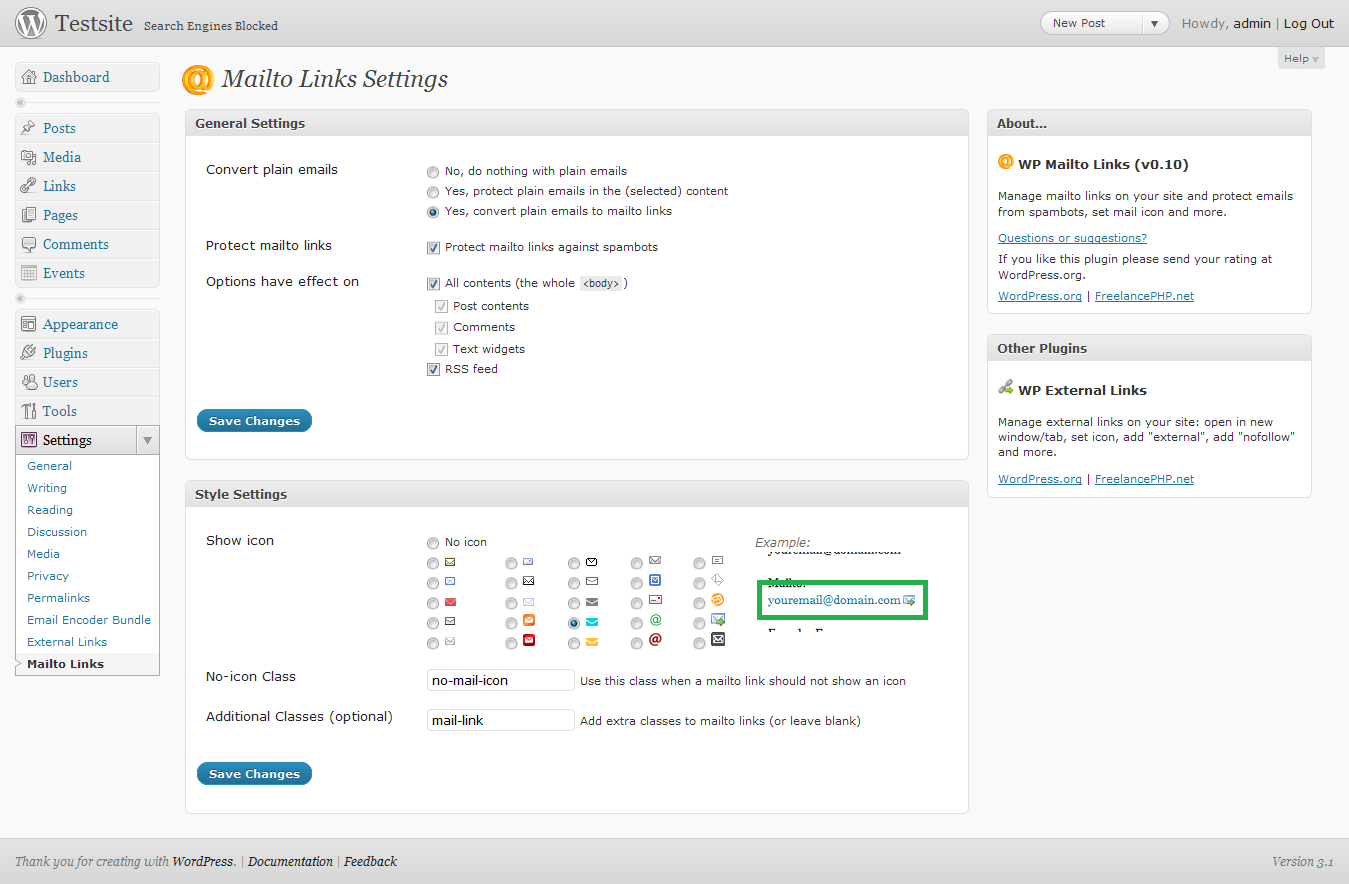
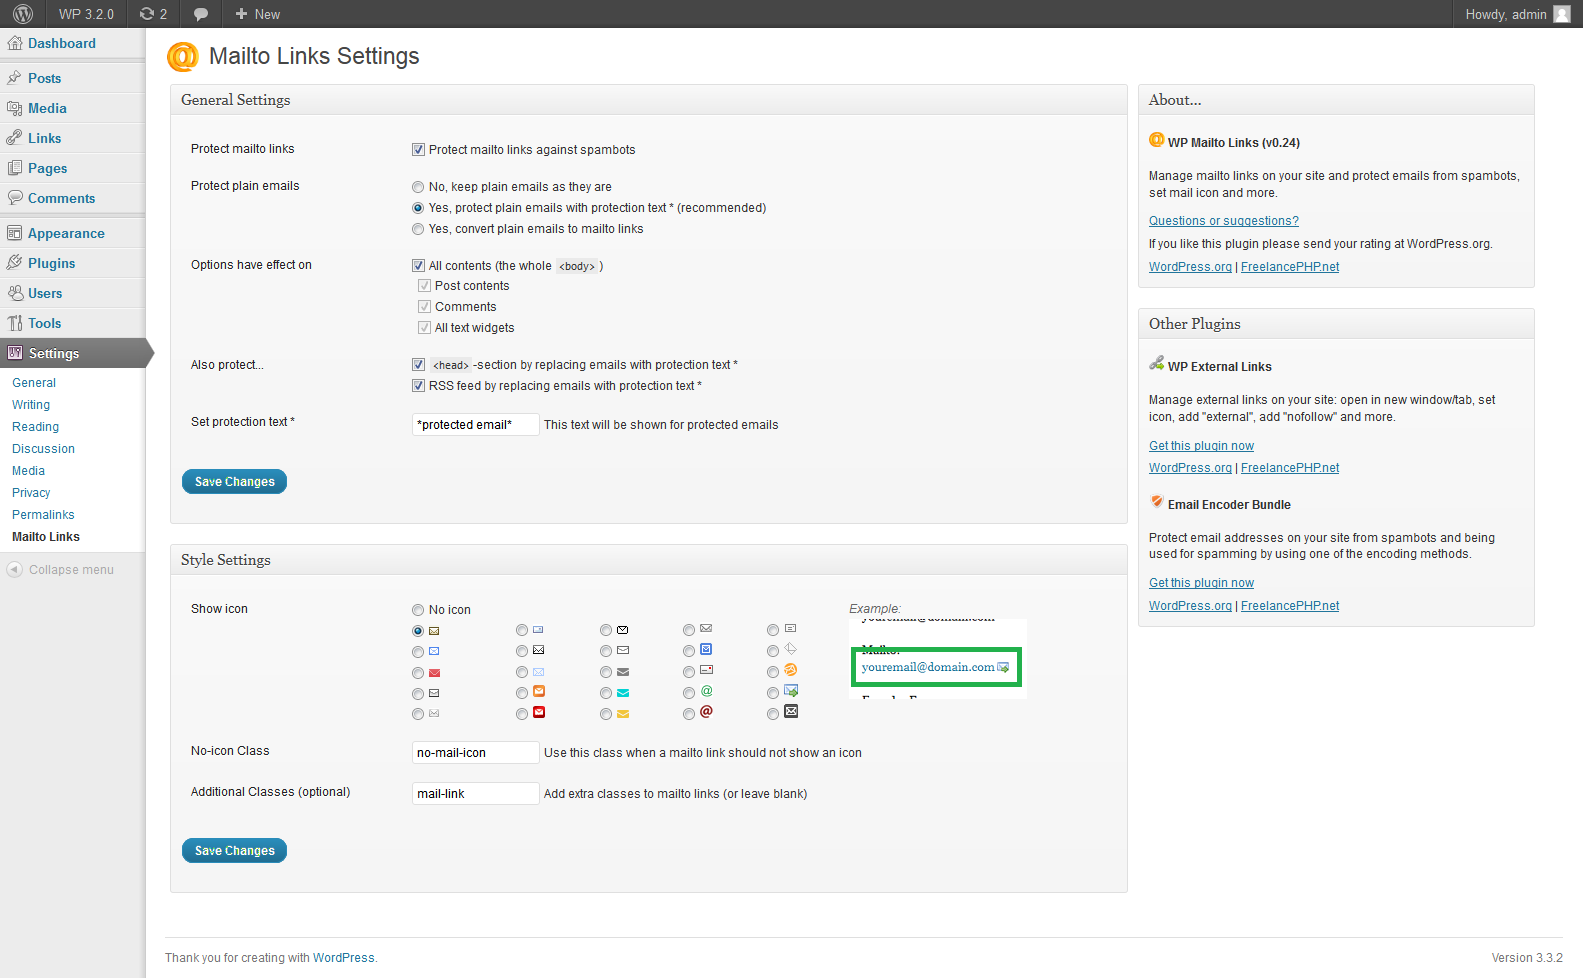
Tag 0.30
git-svn-id: https://plugins.svn.wordpress.org/wp-mailto-links/trunk@543396 b8457f37-d9ea-0310-8a92-e5e31aec5664

diff --git a/js/mailto-links.js b/js/mailto-links.js
@@ -1,15 +1,15 @@
 /* WP Mailto Links Plugin */
-(function( w ){
+(function (w) {
 
-	w.wpml = function ( s1, d, e ) {
-		w.open( 'mailto:'+ rot13( s1.replace( /\[a\]/g, '@' ) ) ).close();
+	w.wpml = function (s1, d, e) {
+		w.open('mailto:'+ rot13(s1.replace(/\[a\]/g, '@'))).close();
 	};
 
-	function rot13( s ){
+	function rot13(s) {
 		// source: http://jsfromhell.com/string/rot13
-		return s.replace( /[a-zA-Z]/g, function( c ) {
+		return s.replace(/[a-zA-Z]/g, function(c) {
 			return String.fromCharCode((c <= "Z" ? 90 : 122) >= (c = c.charCodeAt(0) + 13) ? c : c - 26);
 		});
 	};
 
-})( window );
+})(window);

diff --git a/wp-mailto-links.php b/wp-mailto-links.php
@@ -4,7 +4,7 @@ Plugin Name: WP Mailto Links
 Plugin URI: http://www.freelancephp.net/wp-mailto-links-plugin
 Description: Manage mailto links on your site and protect emails from spambots, set mail icon and more.
 Author: Victor Villaverde Laan
-Version: 0.24
+Version: 0.30
 Author URI: http://www.freelancephp.net
 License: Dual licensed under the MIT and GPL licenses
 */
@@ -19,7 +19,7 @@ class WP_Mailto_Links {
 	 * Current version
 	 * @var string
 	 */
-	var $version = '0.24';
+	var $version = '0.30';
 
 	/**
 	 * Used as prefix for options entry and could be used as text domain (for translations)
@@ -58,12 +58,14 @@ class WP_Mailto_Links {
 	 * @var array
 	 */
 	var $regexp_patterns = array(
-		'email' => '/[A-Z0-9._-]+@[A-Z0-9][A-Z0-9.-]{0,61}[A-Z0-9]\.[A-Z.]{2,6}/i',
-		'email_2' => '/([^mailto\:|mailto\:"|mailto\:\'|A-Z0-9])([A-Z0-9._-]+@[A-Z0-9][A-Z0-9.-]{0,61}[A-Z0-9]\.[A-Z.]{2,6})/i',
+		// @link http://www.mkyong.com/regular-expressions/how-to-validate-email-address-with-regular-expression/
+		'email' => '/[_A-Za-z0-9-]+(\\.[_A-Za-z0-9-]+)*@[A-Za-z0-9]+(\\.[A-Za-z0-9]+)*(\\.[A-Za-z]{2,})/is',
+		'email_2' => '/([^mailto\:|mailto\:"|mailto\:\'|A-Z0-9])([_A-Za-z0-9-]+(\\.[_A-Za-z0-9-]+)*@[A-Za-z0-9]+(\\.[A-Za-z0-9]+)*(\\.[A-Za-z]{2,}))/i',
+		'email_3' => '/mailto\:[\s+]*([_A-Za-z0-9-]+(\\.[_A-Za-z0-9-]+)*@[A-Za-z0-9]+(\\.[A-Za-z0-9]+)*(\\.[A-Za-z]{2,}))/i',
 		'a' => '/<a[^A-Za-z](.*?)>(.*?)<\/a[\s+]*>/is',
 		'tag' => '/\[mailto\s(.*?)\](.*?)\[\/mailto\]/is',
-		'head' => '/<head(>|\s(.*?)>)(.*?)<\/head[\s+]*>/is',
-		'body' => '/<body(>|\s(.*?)>)(.*?)<\/body[\s+]*>/is',
+		'head' => '/<head(([^>]*)>)(.*?)<\/head[\s+]*>/is',
+		'body' => '/<body(([^>]*)>)(.*?)<\/body[\s+]*>/is',
 	);
 
 
@@ -84,9 +86,7 @@ class WP_Mailto_Links {
 		// add actions
 		add_action( 'admin_init', array( $this, 'admin_init' ) );
 		add_action( 'admin_menu', array( $this, 'admin_menu' ) );
-
-		// set filters
-		add_filter( 'pre_get_posts', array( $this, 'pre_get_posts' ) );
+		add_action( 'wp', array( $this, 'wp' ) );
 	}
 
 	/**
@@ -100,32 +100,28 @@ class WP_Mailto_Links {
 		}
 	}
 
-	/**
-	 * pre_get_posts filter
-	 * @param object $query
-	 */
-	function pre_get_posts( $query ) {
+	function wp() {
 		if ( is_admin() )
-			return $query;
+			return;
 
 		// set filter priority
 		$priority = 1000000000;
 
-		if ( $query->is_feed ) {
+		if ( is_feed() ) {
 			// rss feed
 			if ( $this->options[ 'filter_rss' ] ) {
-				add_filter( 'the_title', array( $this, 'filter_protection_text' ), $priority );
-				add_filter( 'the_content', array( $this, 'filter_protection_text' ), $priority );
-				add_filter( 'the_excerpt', array( $this, 'filter_protection_text' ), $priority );
-				add_filter( 'the_title_rss', array( $this, 'filter_protection_text' ), $priority );
-				add_filter( 'the_content_rss', array( $this, 'filter_protection_text' ), $priority );
-				add_filter( 'the_excerpt_rss', array( $this, 'filter_protection_text' ), $priority );
-				add_filter( 'comment_text_rss', array( $this, 'filter_protection_text' ), $priority );
-				add_filter( 'comment_author_rss ', array( $this, 'filter_protection_text' ), $priority );
-				add_filter( 'the_category_rss ', array( $this, 'filter_protection_text' ), $priority );
-				add_filter( 'the_content_feed', array( $this, 'filter_protection_text' ), $priority );
-				add_filter( 'author feed link', array( $this, 'filter_protection_text' ), $priority );
-				add_filter( 'feed_link', array( $this, 'filter_protection_text' ), $priority );
+				add_filter( 'the_title', array( $this, 'filter_protect_rss' ), $priority );
+				add_filter( 'the_content', array( $this, 'filter_protect_rss' ), $priority );
+				add_filter( 'the_excerpt', array( $this, 'filter_protect_rss' ), $priority );
+				add_filter( 'the_title_rss', array( $this, 'filter_protect_rss' ), $priority );
+				add_filter( 'the_content_rss', array( $this, 'filter_protect_rss' ), $priority );
+				add_filter( 'the_excerpt_rss', array( $this, 'filter_protect_rss' ), $priority );
+				add_filter( 'comment_text_rss', array( $this, 'filter_protect_rss' ), $priority );
+				add_filter( 'comment_author_rss ', array( $this, 'filter_protect_rss' ), $priority );
+				add_filter( 'the_category_rss ', array( $this, 'filter_protect_rss' ), $priority );
+				add_filter( 'the_content_feed', array( $this, 'filter_protect_rss' ), $priority );
+				add_filter( 'author feed link', array( $this, 'filter_protect_rss' ), $priority );
+				add_filter( 'feed_link', array( $this, 'filter_protect_rss' ), $priority );
 			}
 		} else {
 			// add stylesheet
@@ -169,8 +165,6 @@ class WP_Mailto_Links {
 				}
 			}
 		}
-
-		return $query;
 	}
 
 	/**
@@ -179,25 +173,30 @@ class WP_Mailto_Links {
 	 * @return string
 	 */
 	function filter_page( $content ) {
-		// protect emails in <head> section
-		if ( $this->options[ 'filter_head' ] ) {
-			$content = preg_replace_callback( $this->regexp_patterns[ 'head' ], array( $this, '_callback_settext_filter' ), $content );
-		}
+		try {
+			// protect emails in <head> section
+			if ( $this->options[ 'filter_head' ] ) {
+				$content = preg_replace_callback( $this->regexp_patterns[ 'head' ], array( $this, '_callback_settext_filter' ), $content );
+			}
 
-		// only replace links in <body> part
-		if ( $this->options[ 'filter_body' ] ) {
-			$content = preg_replace_callback( $this->regexp_patterns[ 'body' ], array( $this, '_callback_page_filter' ), $content );
+			// only replace links in <body> part
+			if ( $this->options[ 'filter_body' ] ) {
+				$content = preg_replace_callback( $this->regexp_patterns[ 'body' ], array( $this, '_callback_page_filter' ), $content );
+			}
+		} catch(Exception $e) {
 		}
 
 		return $content;
 	}
 
 	function _callback_page_filter( $match ) {
-		return $this->filter_content( $match[ 0 ] );
+		$content = (count($match) > 0) ? $match[ 0 ] : '';
+		return $this->filter_content( $content );
 	}
 
 	function _callback_settext_filter( $match ) {
-		return $this->filter_protection_text( $match[ 0 ] );
+		$content = (count($match) > 0) ? $match[ 0 ] : '';
+		return $this->filter_protect_text( $content );
 	}
 
 	/**
@@ -212,7 +211,7 @@ class WP_Mailto_Links {
 		// convert plain emails
 		if ( $this->options[ 'convert_emails' ] == 1 ) {
 			// protect plain emails
-			$content = $this->filter_protection_text( $content );
+			$content = $this->filter_protect_text( $content );
 
 		} elseif ( $this->options[ 'convert_emails' ] == 2 ) {
 			// make mailto links from plain emails
@@ -231,8 +230,19 @@ class WP_Mailto_Links {
 	 * @param string $content
 	 * @return string
 	 */
-	function filter_protection_text( $content ) {
+	function filter_protect_text( $content ) {
 		return preg_replace( $this->regexp_patterns[ 'email_2' ], '${1}' . __( $this->options[ 'protection_text' ], $this->domain ), $content );
+	}
+
+	/**
+	 * Emails will be replaced by '*protected email*'
+	 * @param string $content
+	 * @return string
+	 */
+	function filter_protect_rss( $content ) {
+		$content = $this->filter_protect_text( $content );
+		$content = preg_replace( $this->regexp_patterns[ 'email_3' ], 'mailto:' . __( $this->options[ 'protection_text' ], $this->domain ), $content );
+		return $content;
 	}
 
 	/**
@@ -269,7 +279,7 @@ class WP_Mailto_Links {
 			foreach ( $attrs AS $key => $value ) {
 				if ( $key == 'href' AND $this->options[ 'protect' ] ) {
 					// get email from href
-					$email = str_replace( 'mailto:', '', $href_tolower );
+					$email = substr( $attrs[ 'href' ], 7 );
 					// decode entities
 					$email = html_entity_decode( $email );
 					// rot13 encoding
@@ -371,38 +381,24 @@ class WP_Mailto_Links {
 	function options_page() {
 ?>
 <script type="text/javascript">
-jQuery(function( $ ){
-	// remove message
-	$( '.settings-error' )
-		.hide()
-		.slideDown( 600 )
-		.delay( 3000 )
-		.slideUp( 600 );
+jQuery(function ($) {
+	$('#setting-error-settings_updated').click(function () {
+		$(this).hide();
+	});
 
 	// option filter whole page
-	$( 'input#filter_body' )
-		.change(function(){
-			var $i = $( 'input#filter_posts, input#filter_comments, input#filter_widgets' );
+	$('input#filter_body')
+		.change(function () {
+			var $i = $('input#filter_posts, input#filter_comments, input#filter_widgets');
 
-			if ( $( this ).attr( 'checked' ) ) {
-				$i.attr( 'disabled', true )
-					.attr( 'checked', true );
+			if ($(this).attr('checked')) {
+				$i.attr('disabled', true)
+					.attr('checked', true);
 			} else {
-				$i.attr( 'disabled', false )
+				$i.attr('disabled', false)
 			}
 		})
 		.change();
-
-	// slide postbox
-	$( '.postbox' ).find( '.handlediv, .hndle' ).click(function(){
-		var $inside = $( this ).parent().find( '.inside' );
-
-		if ( $inside.css( 'display' ) == 'block' ) {
-			$inside.css({ display:'block' }).slideUp();
-		} else {
-			$inside.css({ display:'none' }).slideDown();
-		}
-	});
 });
 </script>
 	<div class="wrap">
@@ -412,12 +408,12 @@ jQuery(function( $ ){
 		<form method="post" action="options.php">
 			<?php
 				settings_fields( $this->domain );
-//				$this->_set_options();
+				//$this->_set_options();
 				$options = $this->options;
 			?>
 
 		<div class="postbox-container metabox-holder meta-box-sortables" style="width:69%;">
-		<div style="margin:0 5px;">
+		<div style="margin:0 1%;">
 			<div class="postbox">
 				<div class="handlediv" title="<?php _e( 'Click to toggle' ) ?>"><br/></div>
 				<h3 class="hndle"><?php _e( 'General Settings', $this->domain ) ?></h3>
@@ -530,8 +526,8 @@ jQuery(function( $ ){
 		</div>
 		</div>
 
-		<div class="postbox-container metabox-holder meta-box-sortables" style="width:29%;">
-		<div style="margin:0 5px;">
+		<div class="postbox-container metabox-holder meta-box-sortables" style="width:28%;">
+		<div style="margin:0 2%;">
 			<div class="postbox">
 				<div class="handlediv" title="<?php _e( 'Click to toggle' ) ?>"><br/></div>
 				<h3 class="hndle"><?php _e( 'About' ) ?>...</h3>
